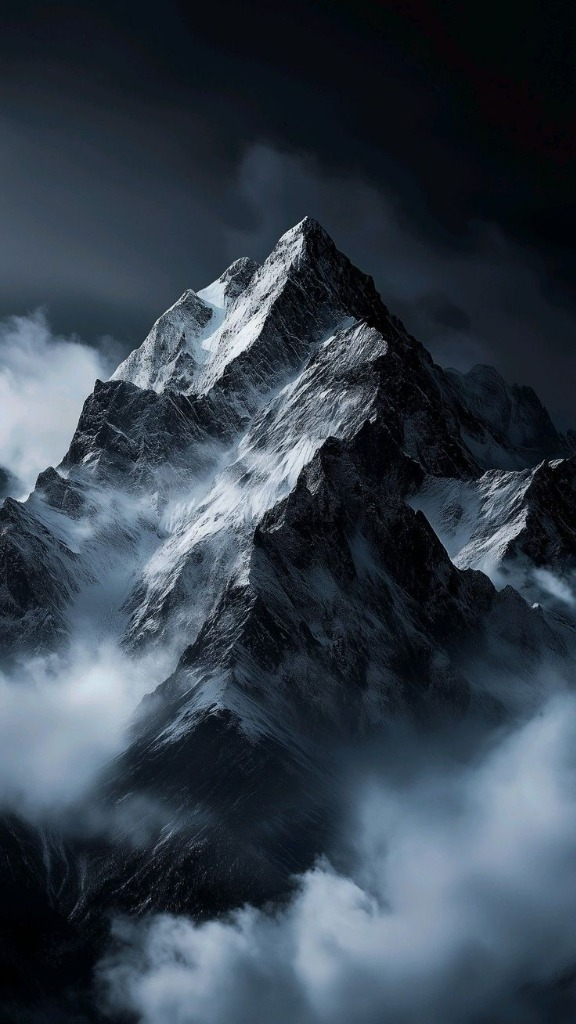
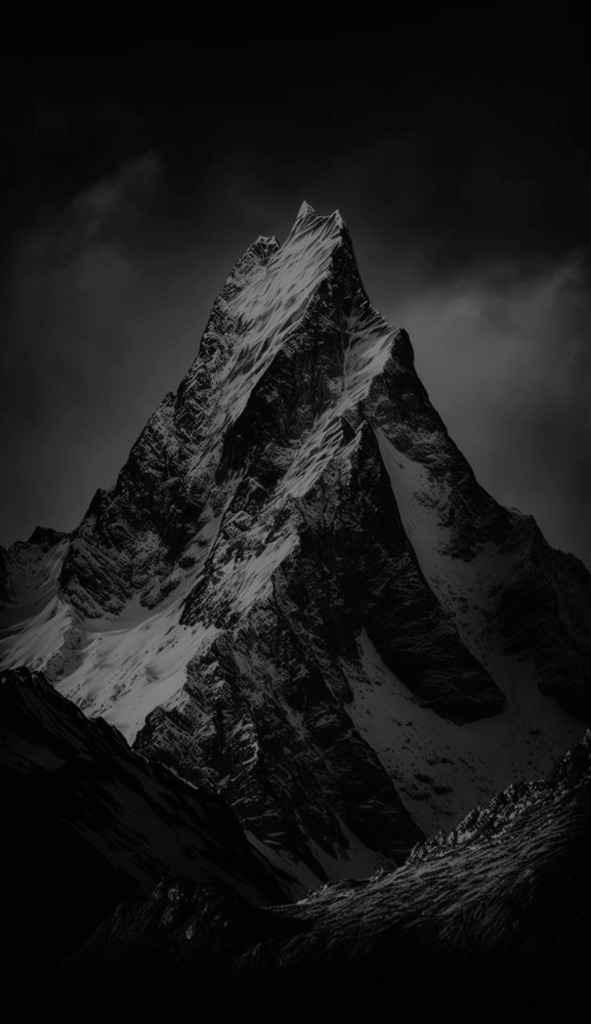
Update background to B&W mountain, remove blur effects

diff --git a/styles.css b/styles.css
@@ -218,32 +218,15 @@ body.alternative-design::before {
     height: 100%;
     background:
         linear-gradient(180deg,
-            rgba(8, 9, 12, 0.4) 0%,
-            rgba(8, 9, 12, 0.6) 40%,
-            rgba(8, 9, 12, 0.85) 100%),
+            rgba(0, 0, 0, 0.2) 0%,
+            rgba(0, 0, 0, 0.3) 50%,
+            rgba(0, 0, 0, 0.6) 100%),
         url('media/bg-mountains.jpg') center center/cover no-repeat;
     pointer-events: none;
     z-index: -1;
 }
 
-/* Aurora blob 1 - cyan, very subtle */
-body.alternative-design::after {
-    content: '';
-    position: fixed;
-    top: -30%;
-    right: -15%;
-    width: 60%;
-    height: 60%;
-    background: radial-gradient(circle at center,
-            rgba(100, 181, 246, 0.08) 0%,
-            rgba(100, 181, 246, 0.04) 25%,
-            transparent 60%);
-    border-radius: 50%;
-    filter: blur(100px);
-    animation: aurora-float-1 60s ease-in-out infinite;
-    pointer-events: none;
-    z-index: 0;
-}
+/* Aurora effects removed - using mountain photo only */
 
 /* Aurora blob 2 - purple-blue */
 body {
